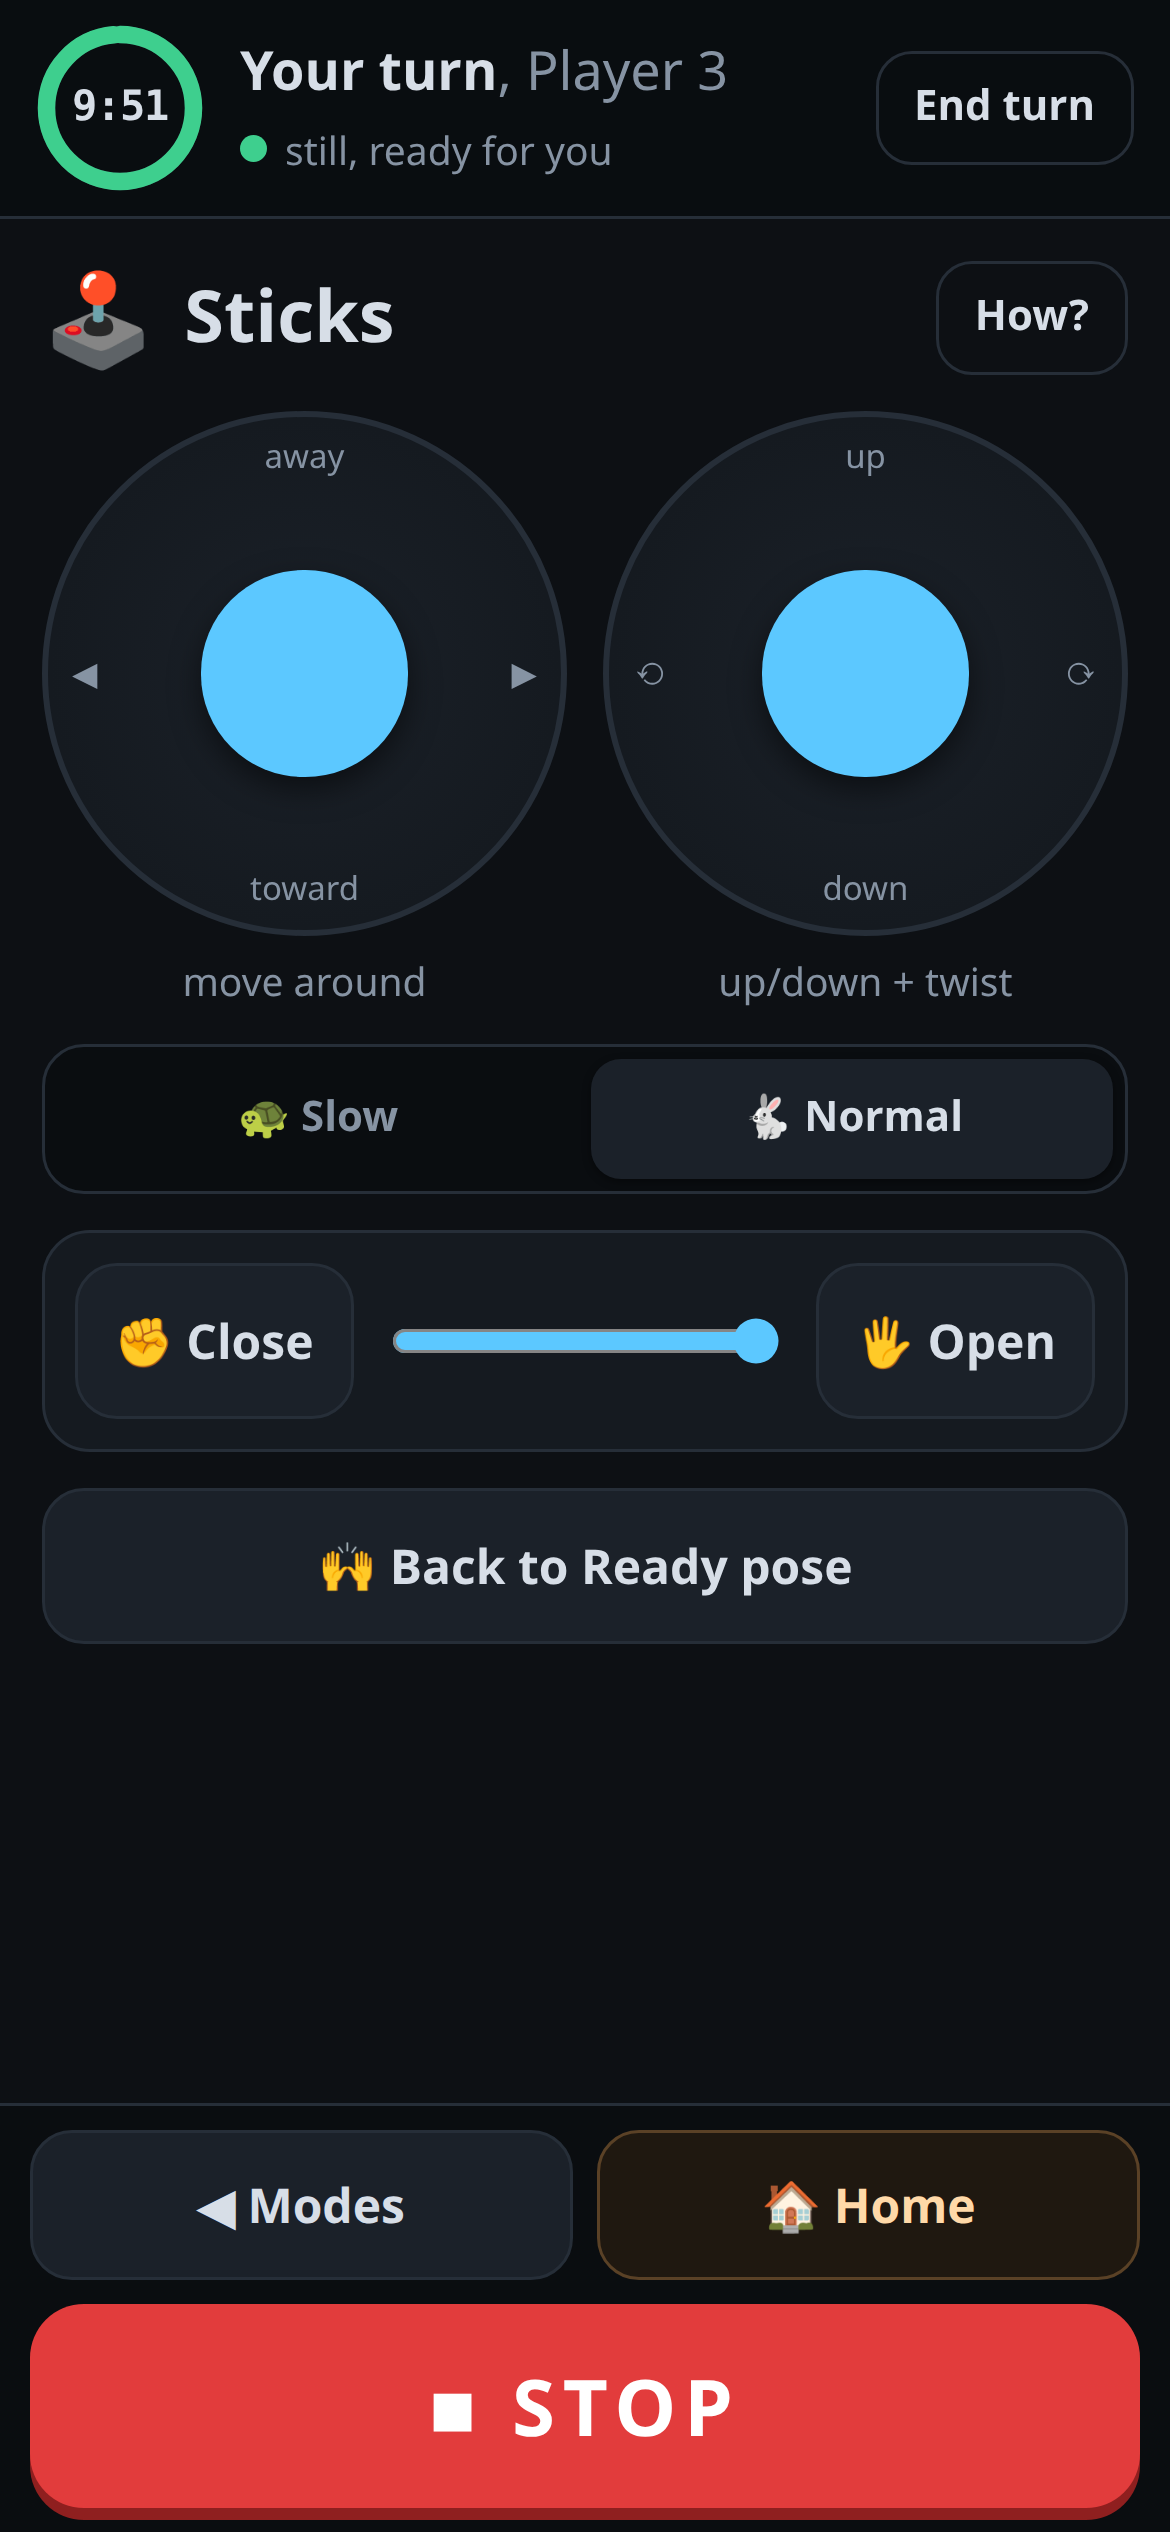
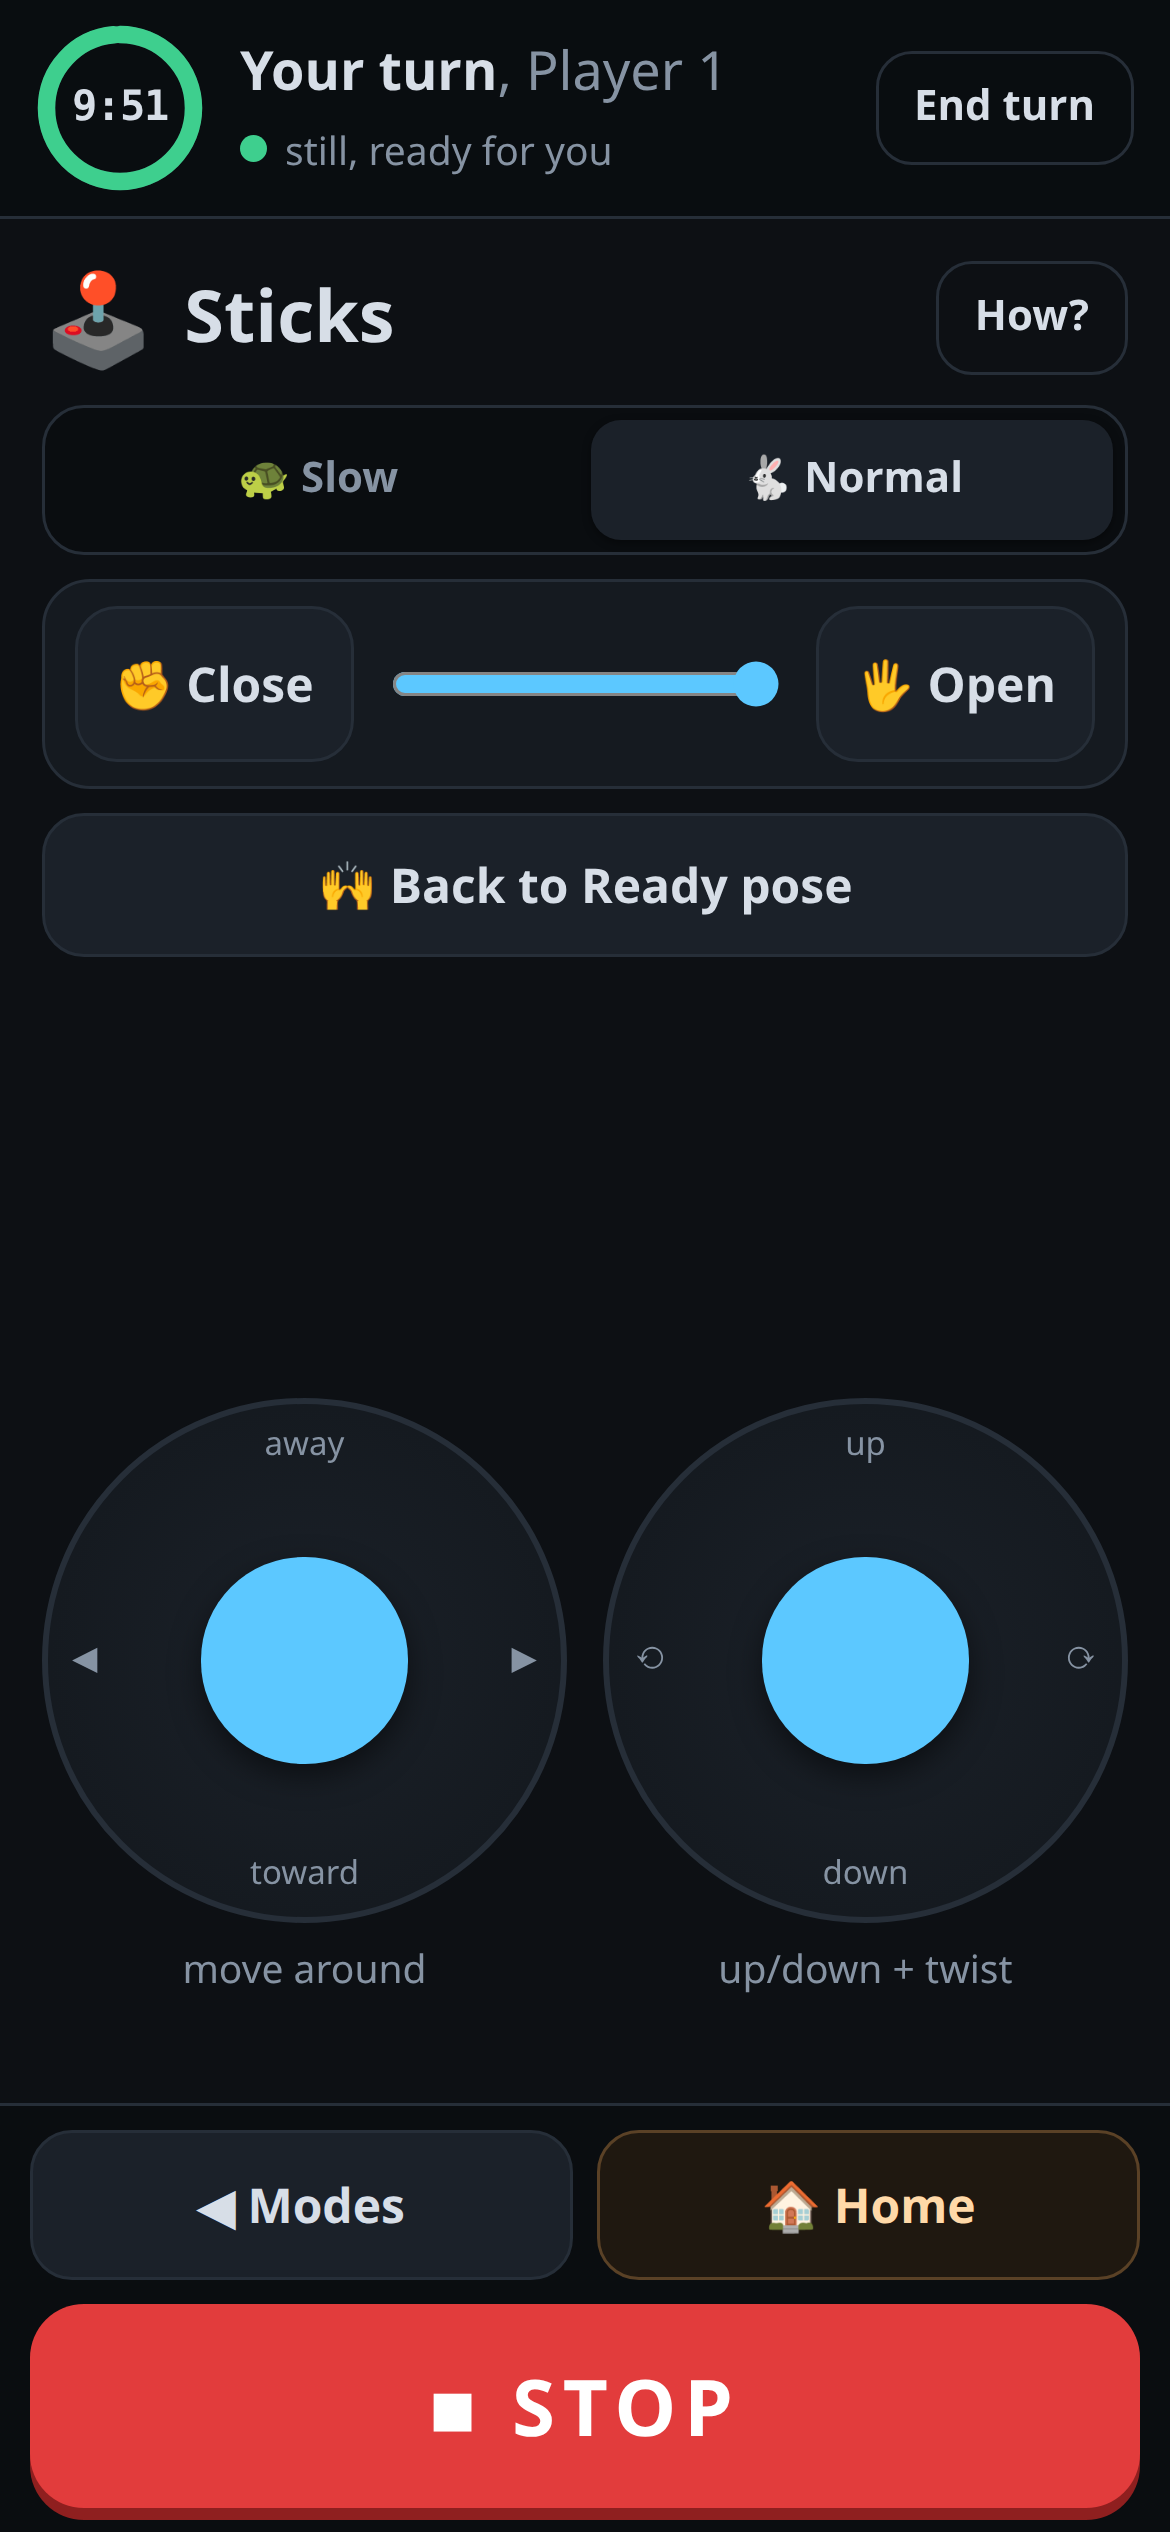
openplay phone: live controls at the bottom by the thumb; hold buttons as touch divs (iOS); 'too low to steer' bar with Ready

diff --git a/openplay/static/play.html b/openplay/static/play.html
@@ -177,9 +177,11 @@
         <h2 id="phTitle"></h2>
         <button class="btn tiny ghost" id="howBtn">How?</button>
       </div>
+      <div class="lowbar" id="lowBar" hidden><span>⬇ Too low to steer from here.</span><button class="btn" id="lowReady">🙌 Ready</button></div>
       <div class="busybar" id="busyBar" hidden><span id="busyTxt"></span><span class="small">tap STOP to take over</span></div>
 
       <div class="panel" id="panel-tilt" hidden>
+        <button class="btn tiny ghost center-btn" id="resetPoseBtn">🎯 Re-set start pose</button>
         <div class="pad" id="tiltPad">
           <div class="cross v"></div><div class="cross h"></div>
           <div class="dot" id="tiltDot"></div>
@@ -192,8 +194,6 @@
             <div class="pg-sub" id="padGateSub">The arm waits until you're there</div>
           </div>
         </div>
-        <p class="small muted center">Hold the green button at the bottom and tilt. Let go and the arm stops.</p>
-        <button class="btn tiny ghost center-btn" id="resetPoseBtn">🎯 Re-set start pose</button>
       </div>
 
       <div class="panel" id="panel-sticks" hidden>
@@ -292,9 +292,9 @@
     </div>
     <!-- Tilt: the hold button lives here, by the thumb, right above STOP -->
     <div class="dock-row dock-tilt" id="dockTilt">
-      <button class="btn hold dz" id="zDown">▼<small>Down</small></button>
-      <button class="btn hold dock-hold" id="tiltHold">✋ HOLD &amp; TILT</button>
-      <button class="btn hold dz" id="zUp">▲<small>Up</small></button>
+      <div class="btn hold dz" id="zDown" role="button" aria-label="down">▼<small>Down</small></div>
+      <div class="btn hold dock-hold" id="tiltHold" role="button">✋ HOLD &amp; TILT</div>
+      <div class="btn hold dz" id="zUp" role="button" aria-label="up">▲<small>Up</small></div>
     </div>
     <button class="stop" id="stopBtn">■ STOP</button>
   </footer>

diff --git a/openplay/static/play.js b/openplay/static/play.js
@@ -174,6 +174,11 @@ function handle(m) {
       toast(m.text, m.kind || 'info'); break;
     case 'refused': {
       const r = m.reason || 'Not now';
+      // Cartesian steering is refused once the shoulder sinks too low: say so and offer Ready
+      if (/needs the arm unfolded/.test(r)) {
+        if ($('lowBar').hidden) { releaseAll(); buzz([30, 40, 30]); }
+        $('lowBar').hidden = false; break;
+      }
       toast(/^busy/i.test(r) && S.screen === 'turn' ? `${r}. Tap STOP first.` : r, 'error', '✋'); break;
     }
     case 'say':
@@ -340,7 +345,10 @@ function showView(v) {
   for (const id of ['modes', 'getset', 'play']) $('view-' + id).hidden = id !== v;
   $('modesBtn').hidden = v === 'modes';
   document.body.dataset.view = v;
-  window.scrollTo(0, 0);
+  // driving: land at the bottom, where the live control sits by the thumb
+  const m = modeById(S.mode);
+  if (v === 'play' && m && m.drive) requestAnimationFrame(() => window.scrollTo(0, document.body.scrollHeight));
+  else window.scrollTo(0, 0);
 }
 // Drive modes need the arm at Ready (Cartesian tilt can't move from folded home): ask for it.
 function sendReady(why) {
@@ -566,6 +574,7 @@ function drawDot() {
 }
 $('sensorsBtn').addEventListener('click', enableSensors);
 $('noSensorBtn').addEventListener('click', () => openMode('sticks'));
+$('lowReady').addEventListener('click', () => { releaseAll(); if (send({ op: 'ready' })) $('lowBar').hidden = true; });
 $('resetPoseBtn').addEventListener('click', () => { S.neutral = null; openMode('tilt', { ready: false }); });
 // Hold to drive: the dock button (by the thumb, above STOP) or the pad itself.
 const tiltDown = (src) => () => {

diff --git a/openplay/static/play.css b/openplay/static/play.css
@@ -444,3 +444,22 @@ input[type=range] { flex: 1; min-width: 0; height: 44px; accent-color: var(--acc
 }
 @media (prefers-reduced-motion: reduce) { * { animation: none !important; transition: none !important; } }
 .gs-tilt p:empty { display: none; }
+
+/* play view: settings on top, the live control at the bottom by the thumb (above the dock) */
+#view-play { min-height: calc(100dvh - var(--dock-h) - 120px); gap: 10px; }
+#view-play .play-head { order: 0; }
+#view-play #lowBar, #view-play #busyBar { order: 1; }
+#view-play #driveExtras { order: 2; }
+#view-play .panel:not(#driveExtras) { order: 3; margin-top: auto; }
+.btn.hold { user-select: none; -webkit-user-select: none; -webkit-touch-callout: none; touch-action: none;
+  display: flex; align-items: center; justify-content: center; text-align: center; cursor: pointer; }
+.pad, .stick, .jog { user-select: none; -webkit-user-select: none; -webkit-touch-callout: none; }
+.lowbar { display: flex; align-items: center; gap: 10px; justify-content: space-between; padding: 10px 12px;
+  border-radius: 14px; background: #2a1d0b; border: 1px solid #7a5a1c; color: #ffd9a8; font-weight: 650; }
+.lowbar[hidden] { display: none; }
+.lowbar .btn { min-height: 44px; }
+#view-play .drive-extras { gap: 8px; }
+#view-play .drive-extras .card.grip { padding: 8px 10px; }
+#view-play #readyBtn { min-height: 46px; }
+body[data-mode="tilt"] .pad { height: clamp(170px, calc(100dvh - var(--dock-h) - 500px), 320px); min-height: 0; }
+body[data-mode="tilt"] #resetPoseBtn { margin: 0 auto; }
